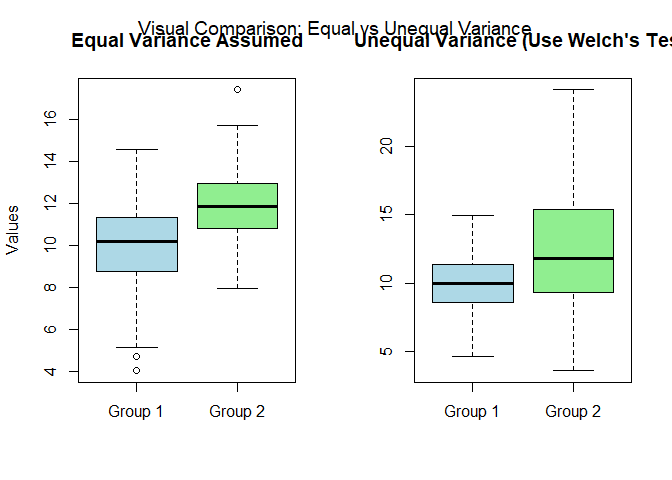
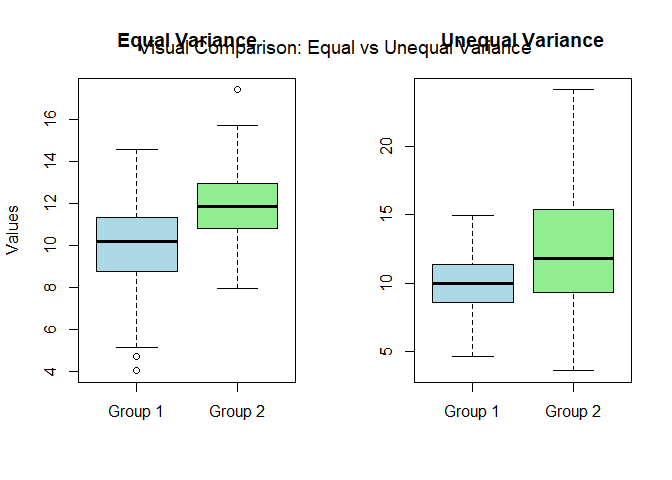
Figure updated

Changed region(s): [[0.0938, 0.0312, 1.0, 0.125]]

diff --git a/chapters/T-test/Independent-Sample-Ttest.md b/chapters/T-test/Independent-Sample-Ttest.md
@@ -43,7 +43,7 @@ variability from both groups into a single estimate.
 -   We used it when the assumption of equal variances holds (i.e., the
     spread of values is similar in both groups).
 
-#### Equal variance assumed mean
+#### Equal variance assumed
 
 It means the two populations you’re comparing are believed to have
 **similar spread (variability)**. If this assumption is violated, it can
@@ -59,11 +59,11 @@ $$S{\scriptstyle p} = \sqrt{\frac{(n{\scriptstyle 1} - 1)s{\scriptstyle 1^2} + (
 
 -   is the pooled standard deviation
 
--   *X̄*1, *X̄*2 : *S**a**m**p**l**e**m**e**a**n**s*
+-   *X̄*1, *X̄*2: Sample means
 
--   *s*1<sup>2</sup>, *s*2<sup>2</sup> : *S**a**m**p**l**e**v**a**r**i**a**n**c**e*
+-   *s*1<sup>2</sup>, *s*2<sup>2</sup>: Sample variance
 
--   *n*1, *n*2 : *S**a**m**p**l**e**s**i**z**e**s*
+-   *n*1, *n*2: Sample sizes
 
 ### Unequal Variances (Welch’s T-Test)
 
@@ -79,34 +79,6 @@ $$
 $$
 
 ### Equal vs. Unequal Variance Visualization
-
-    # Set seed for reproducibility
-    set.seed(42)
-
-    # Simulate data
-    group1_equal <- rnorm(100, mean = 10, sd = 2)
-    group2_equal <- rnorm(100, mean = 12, sd = 2)
-
-    group1_unequal <- rnorm(100, mean = 10, sd = 2)
-    group2_unequal <- rnorm(100, mean = 12, sd = 5)
-
-    # Create plots
-    par(mfrow = c(1, 2))  # Side-by-side plots
-
-    # Plot 1: Equal Variance
-    boxplot(group1_equal, group2_equal,
-            names = c("Group 1", "Group 2"),
-            main = "Equal Variance Assumed",
-            col = c("lightblue", "lightgreen"),
-            ylab = "Values")
-
-    # Plot 2: Unequal Variance
-    boxplot(group1_unequal, group2_unequal,
-            names = c("Group 1", "Group 2"),
-            main = "Unequal Variance (Use Welch's Test)",
-            col = c("lightblue", "lightgreen"))
-
-    mtext("Visual Comparison: Equal vs Unequal Variance", outer = TRUE, line = -2, cex = 1.2)
 
 ![](Independent-Sample-Ttest_files/figure-markdown_strict/unnamed-chunk-1-1.png)
 
